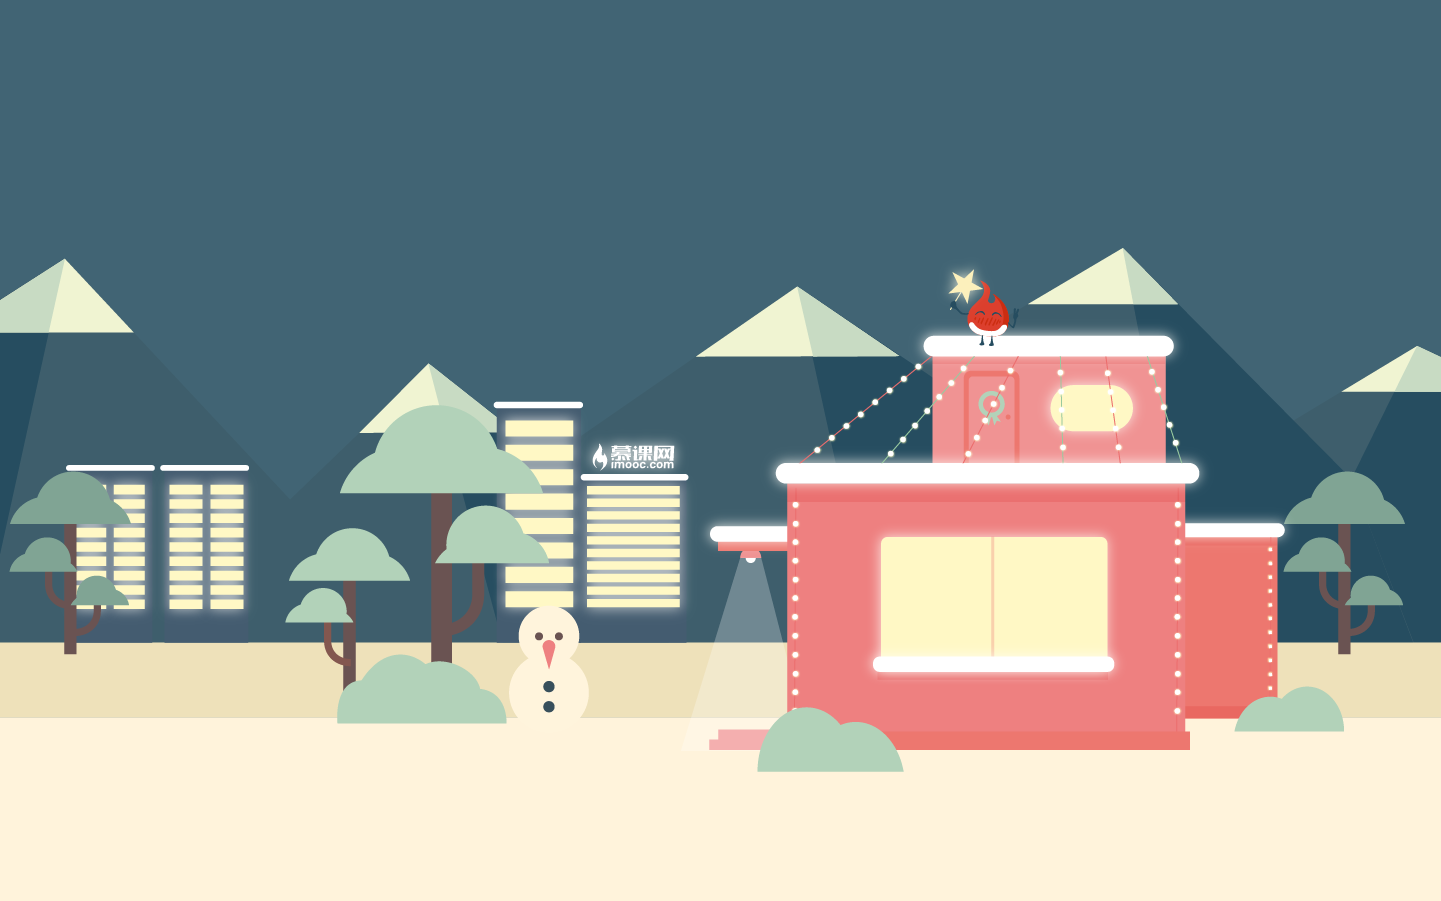
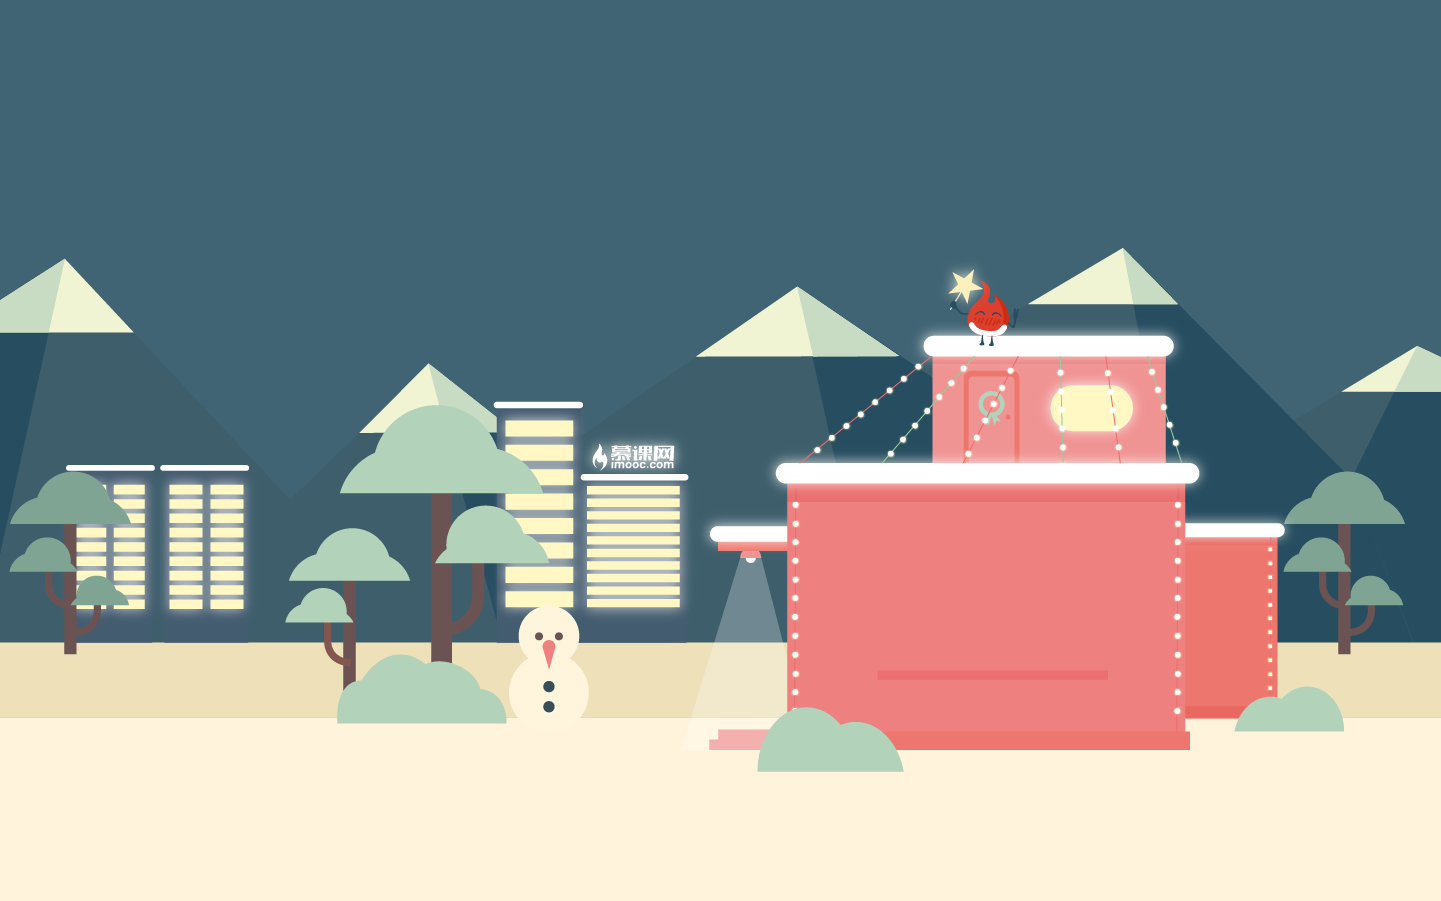
Squashed commit of the following:
commit b22d92e18c244a6fdc48882329680b4ebfe532ec
Author: JsAaron <401545553@qq.com>
Date:   Mon Nov 23 21:02:48 2015 +0800

    update

Changed region(s): [[0.5933, 0.5905, 0.7807, 0.7769]]

diff --git a/christmas/release/css/pageA.css b/christmas/release/css/pageA.css
@@ -4,7 +4,8 @@
     background-image: url("../images/a/page-a-bg.png");
     position: absolute;
     z-index: 5;
-    perspective: 2000px;
+    /*perspective: 2000px;*/
+    /*transform-style: preserve-3d;*/
 }
 
 
@@ -13,8 +14,8 @@
  */
 
 .tree {
-    width: 3rem;
-    height: 6rem;
+    width: 2.71rem;
+    height: 4.24rem;
     z-index: 15;
     position: absolute;
     bottom: 0;
@@ -22,7 +23,7 @@
     background-image: url("../images/a/trees.png");
     background-size: 200% 100%;
     -webkit-animation-name: tree-run;
-    -webkit-animation-duration: 400ms;
+    -webkit-animation-duration: 1000ms;
     -webkit-animation-timing-function: steps(2);
     -webkit-animation-iteration-count: infinite;
 }
@@ -42,18 +43,15 @@
  */
 
 .chs-boy {
-    width: 7rem;
-    height: 2rem;
+    width: 5rem;
+    height: 1.5rem;
     position: absolute;
     z-index: 3;
     left: -2rem;
     top: .5rem;
     transform: scale(0.1);
-    background: url("../images/a/boy-sleigh-car.png");
-    background-size: 300% 100%;
-    /*transform:rotateY(120deg);*/
-    transform-style: preserve-3d;
-    -webkit-transform-style: preserve-3d;
+    background: url("../images/a/boy-sleigh-car.png") -300% 100%;
+    background-size: 400% 100%;
 }
 
 
@@ -62,21 +60,18 @@
  */
 
 .boy-animate {
-    -webkit-animation-name: person-slow;
+    -webkit-animation-name: boyAnimate;
     -webkit-animation-duration: 750ms;
     -webkit-animation-iteration-count: infinite;
-    -webkit-animation-timing-function: steps(3);
+    -webkit-animation-timing-function: steps(3,end);
 }
 
-@-webkit-keyframes person-slow {
+@-webkit-keyframes boyAnimate {
     0% {
-        background-position: 300% 100%
-    }
-    50% {
-        background-position: 600% 100%
+        background-position-x: -0%;
     }
     100% {
-        background-position: 900% 100%
+        background-position-x: -300%;
     }
 }
 
@@ -130,8 +125,8 @@
     width: 1.2rem;
     height: 1.2rem;
     position: absolute;
-    left: 2.03rem;
-    top: 3.7rem;
+    left: 1.75rem;
+    top: 4.9rem;
     z-index: 15;
 }
 
@@ -166,7 +161,7 @@
     background: url("../images/a/page-a-window-bg.png") 30% center;
     background-size: 100% 100%;
     width: 2.65rem;
-    height: 1.6rem;
+    height: 2rem;
     position: absolute;
     left:9.7rem;
     top: 5.95rem;
@@ -202,15 +197,17 @@
 .window-right {
     width: 49%;
     height: 82%;
-    -webkit-transition: 1s ease-in-out;
+    -webkit-transition: 2s ease-in-out;
 }
 
 .window-left.hover {
-    -webkit-transform: scale(0.9) rotateY(60deg);
-    margin-left: -0.37rem;
+    -webkit-transform: scale(0.8) rotateY(60deg);
+     margin-top: 0.1rem;
+    margin-left: -0.17rem;
 }
 
 .window-right.hover {
-    -webkit-transform: scale(0.9) rotateY(-60deg);
-    margin-right: -0.37rem;
+    -webkit-transform: scale(0.8) rotateY(-60deg);
+     margin-top: 0.1rem;
+    margin-right: -0.17rem;
 }

diff --git a/christmas/release/js/pageA.js b/christmas/release/js/pageA.js
@@ -15,7 +15,6 @@ function PageA(element) {
     this.$window = element.find(".window");    
     this.$leftWin  = this.$window.find(".window-left")
     this.$rightWin = this.$window.find(".window-right")
-
     //初始化一些场景
     this.init();
 }
@@ -56,7 +55,7 @@ PageA.prototype.openWindow = function(callback) {
  * @return {[type]} [description]
  */
 PageA.prototype.stopWalk = function(){
-    this.$boy.addClass("boy-stop-animate")
+    this.$boy.removeClass("boy-animate")
 }
 
 
@@ -78,19 +77,17 @@ PageA.prototype.next = function(options) {
  * @return {[type]} [description]
  */
 PageA.prototype.run = function(callback){
-    // return
     var that = this;
     var next = function() {
         return this.next.apply(this, arguments)
     }.bind(this)
 
     next({
-        "time": 1000,
+        "time": 2000,
         "style": {
-            "top"    : "1rem",
-            "left"   : "1rem",
-            "rotateY" : "20deg",
-            "scale"  : "0.2"
+            "top"     : "1rem",
+            "left"    : "1rem",
+            "scale"   : "0.2"
         }
     })
     .done(function(){
@@ -98,7 +95,7 @@ PageA.prototype.run = function(callback){
     })
     .then(function() {
         return next({
-                "time": 1000,
+                "time": 3000,
                 "style": {
                 "top": "2rem",
                 "left": "5rem",
@@ -151,25 +148,26 @@ PageA.prototype.run = function(callback){
     })
     .then(function() {
         return next({
-            "time": 4000,
+            "time": 6000,
             "style": {
-                 "left"  :"-4rem",
-                 "top"   : "7.2rem",
-                 "scale" : "1"
+                 "left"  :"-5rem",
+                 "top"   : "7.6rem",
+                 "scale" : "1.5"
             }
         })
     })  
     .then(function() {
        return next({
-            "time": 1000,
+            // "time": 0,
             "style": {
-                "rotateY" : "0"
+               "rotateY" : "0",
+               "scale" : "1.2"
             }
         })
     })    
     .then(function() {
         return next({
-            "time": 2000,
+            "time": 3000,
             "style": {
                 "left" : "8.5rem",
             }

diff --git a/christmas/release/js/pageB.js b/christmas/release/js/pageB.js
@@ -20,16 +20,16 @@ function PageB(element,pageComplete) {
         //男孩
         boy: {
             //走路时间
-            walk:2000,
+            walk:3000,
         },
         //女孩
         girl: {
             //起身时间
-            standUp: 1000,
+            standUp: 2000,
             //抛书
-            throwBook: 1000,
+            throwBook: 1500,
             //走路
-            walk: 2000,
+            walk: 3000,
             //飞奔拥抱走路
             hugWalk: 500,
         }

diff --git a/christmas/release/js/christmas.js b/christmas/release/js/christmas.js
@@ -41,11 +41,10 @@ var Christmas = function() {
     //页面对象
     var objA,objB,objC;
 
-
 	// 第一副页面
     objA = new PageA($pageA)
     objA.run(function() {
-         // observer.publish("completeA");
+         observer.publish("completeA");
     });
 
     //页面A-B页面切换
